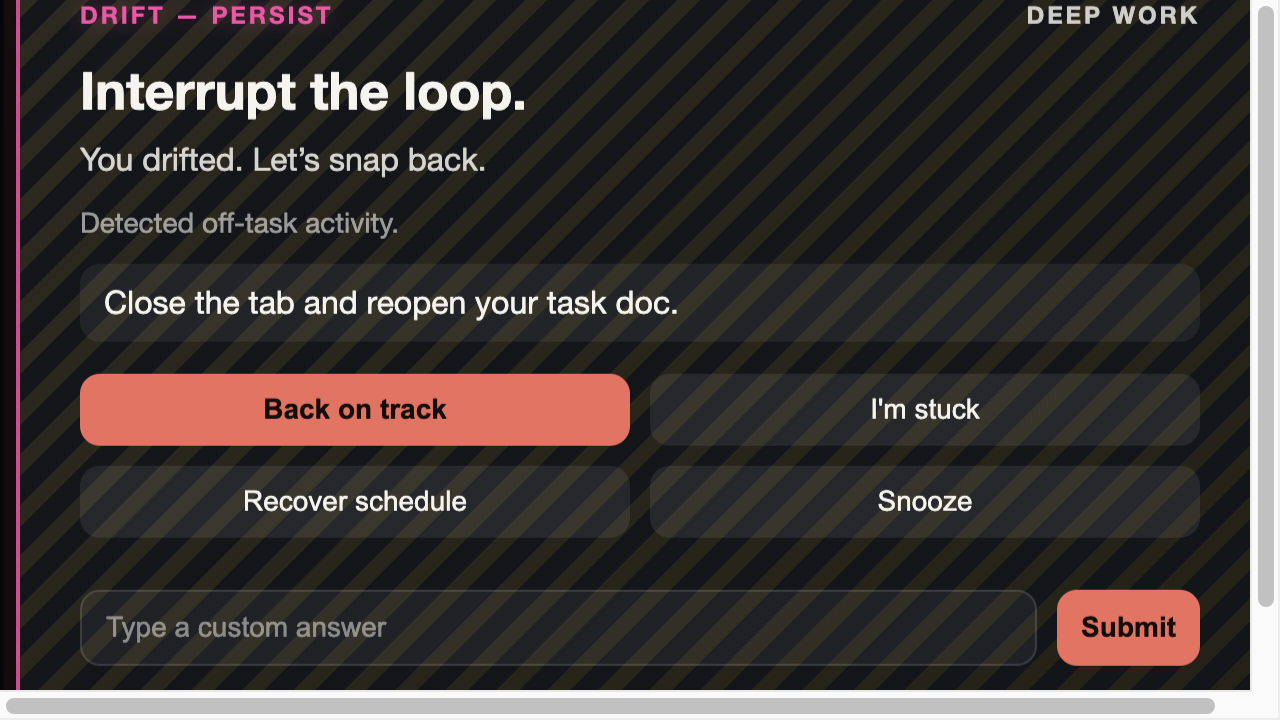
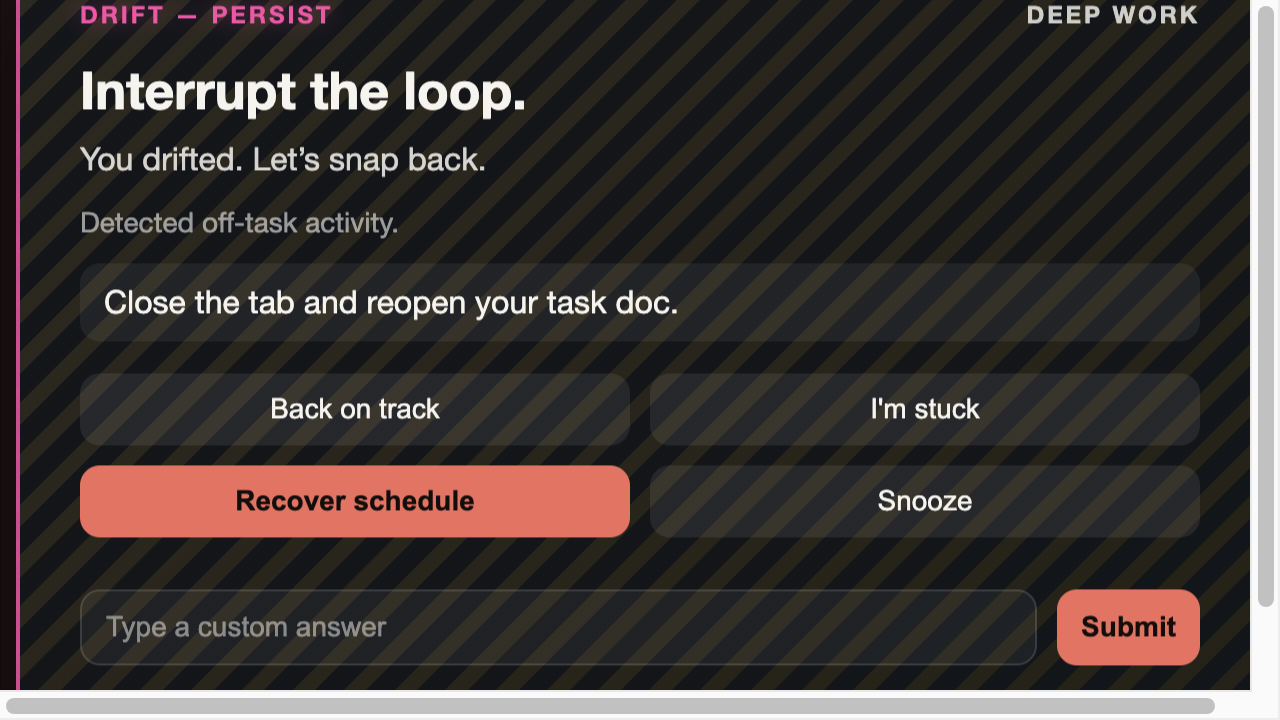
overlay: make Enter trigger recover on DRIFT_PERSIST

diff --git a/overlay/overlay.js b/overlay/overlay.js
@@ -16,6 +16,7 @@ const backBtn = document.getElementById("backBtn");
 const stuckBtn = document.getElementById("stuckBtn");
 const recoverBtn = document.getElementById("recoverBtn");
 const snoozeBtn = document.getElementById("snoozeBtn");
+const enterHint = document.getElementById("enterHint");
 
 let shownAt = null;
 let currentPayload = null;
@@ -53,6 +54,22 @@ function updateEventLabel(payload) {
   setText(eventLabel, eventType.replaceAll("_", " "));
 }
 
+function isDriftPersist() {
+  return String(overlay?.dataset?.eventType || "").toUpperCase() === "DRIFT_PERSIST";
+}
+
+function updatePrimaryActionForEventType() {
+  const driftPersist = isDriftPersist();
+
+  // Pattern-break: when drift persists, nudge toward a concrete recovery action.
+  backBtn.classList.toggle("primary", !driftPersist);
+  recoverBtn.classList.toggle("primary", driftPersist);
+
+  if (enterHint) {
+    enterHint.textContent = driftPersist ? "Enter: Recover schedule" : "Enter: Back on track";
+  }
+}
+
 function resetSnooze() {
   snooze.classList.add("hidden");
 }
@@ -68,6 +85,7 @@ function showOverlay(payload) {
   resetAlignInput();
   updateEventLabel(payload);
   updatePrimaryLabel(payload);
+  updatePrimaryActionForEventType();
 
   if (payload.choices && Array.isArray(payload.choices)) {
     overlay.dataset.mode = "align";
@@ -175,11 +193,16 @@ window.overlayAPI.onPause(() => {
 });
 
 window.addEventListener("keydown", (event) => {
-  // Don't treat Enter as "Back on track" while the user is typing or interacting with a control.
+  // Don't treat Enter as a global action while the user is typing or interacting with a control.
   if (event.key === "Enter") {
     const ignoreEnter = window.overlayUtils?.shouldIgnoreGlobalEnter?.(event.target);
     if (!ignoreEnter) {
-      sendAction({ action: "back_on_track" });
+      // Pattern-break: when drift persists, make Enter trigger a concrete recovery step.
+      if (isDriftPersist()) {
+        sendAction({ action: "recover" });
+      } else {
+        sendAction({ action: "back_on_track" });
+      }
     }
   }
   if (event.key === "Escape") {

diff --git a/overlay/overlay.html b/overlay/overlay.html
@@ -39,7 +39,7 @@
         </div>
         <div id="miniPlan" class="mini-plan hidden"></div>
         <div class="footer">
-          <span>Enter: Back on track</span>
+          <span id="enterHint">Enter: Back on track</span>
           <span>Esc: Snooze</span>
           <span>Cmd/Ctrl+Shift+P: Pause 15</span>
         </div>
